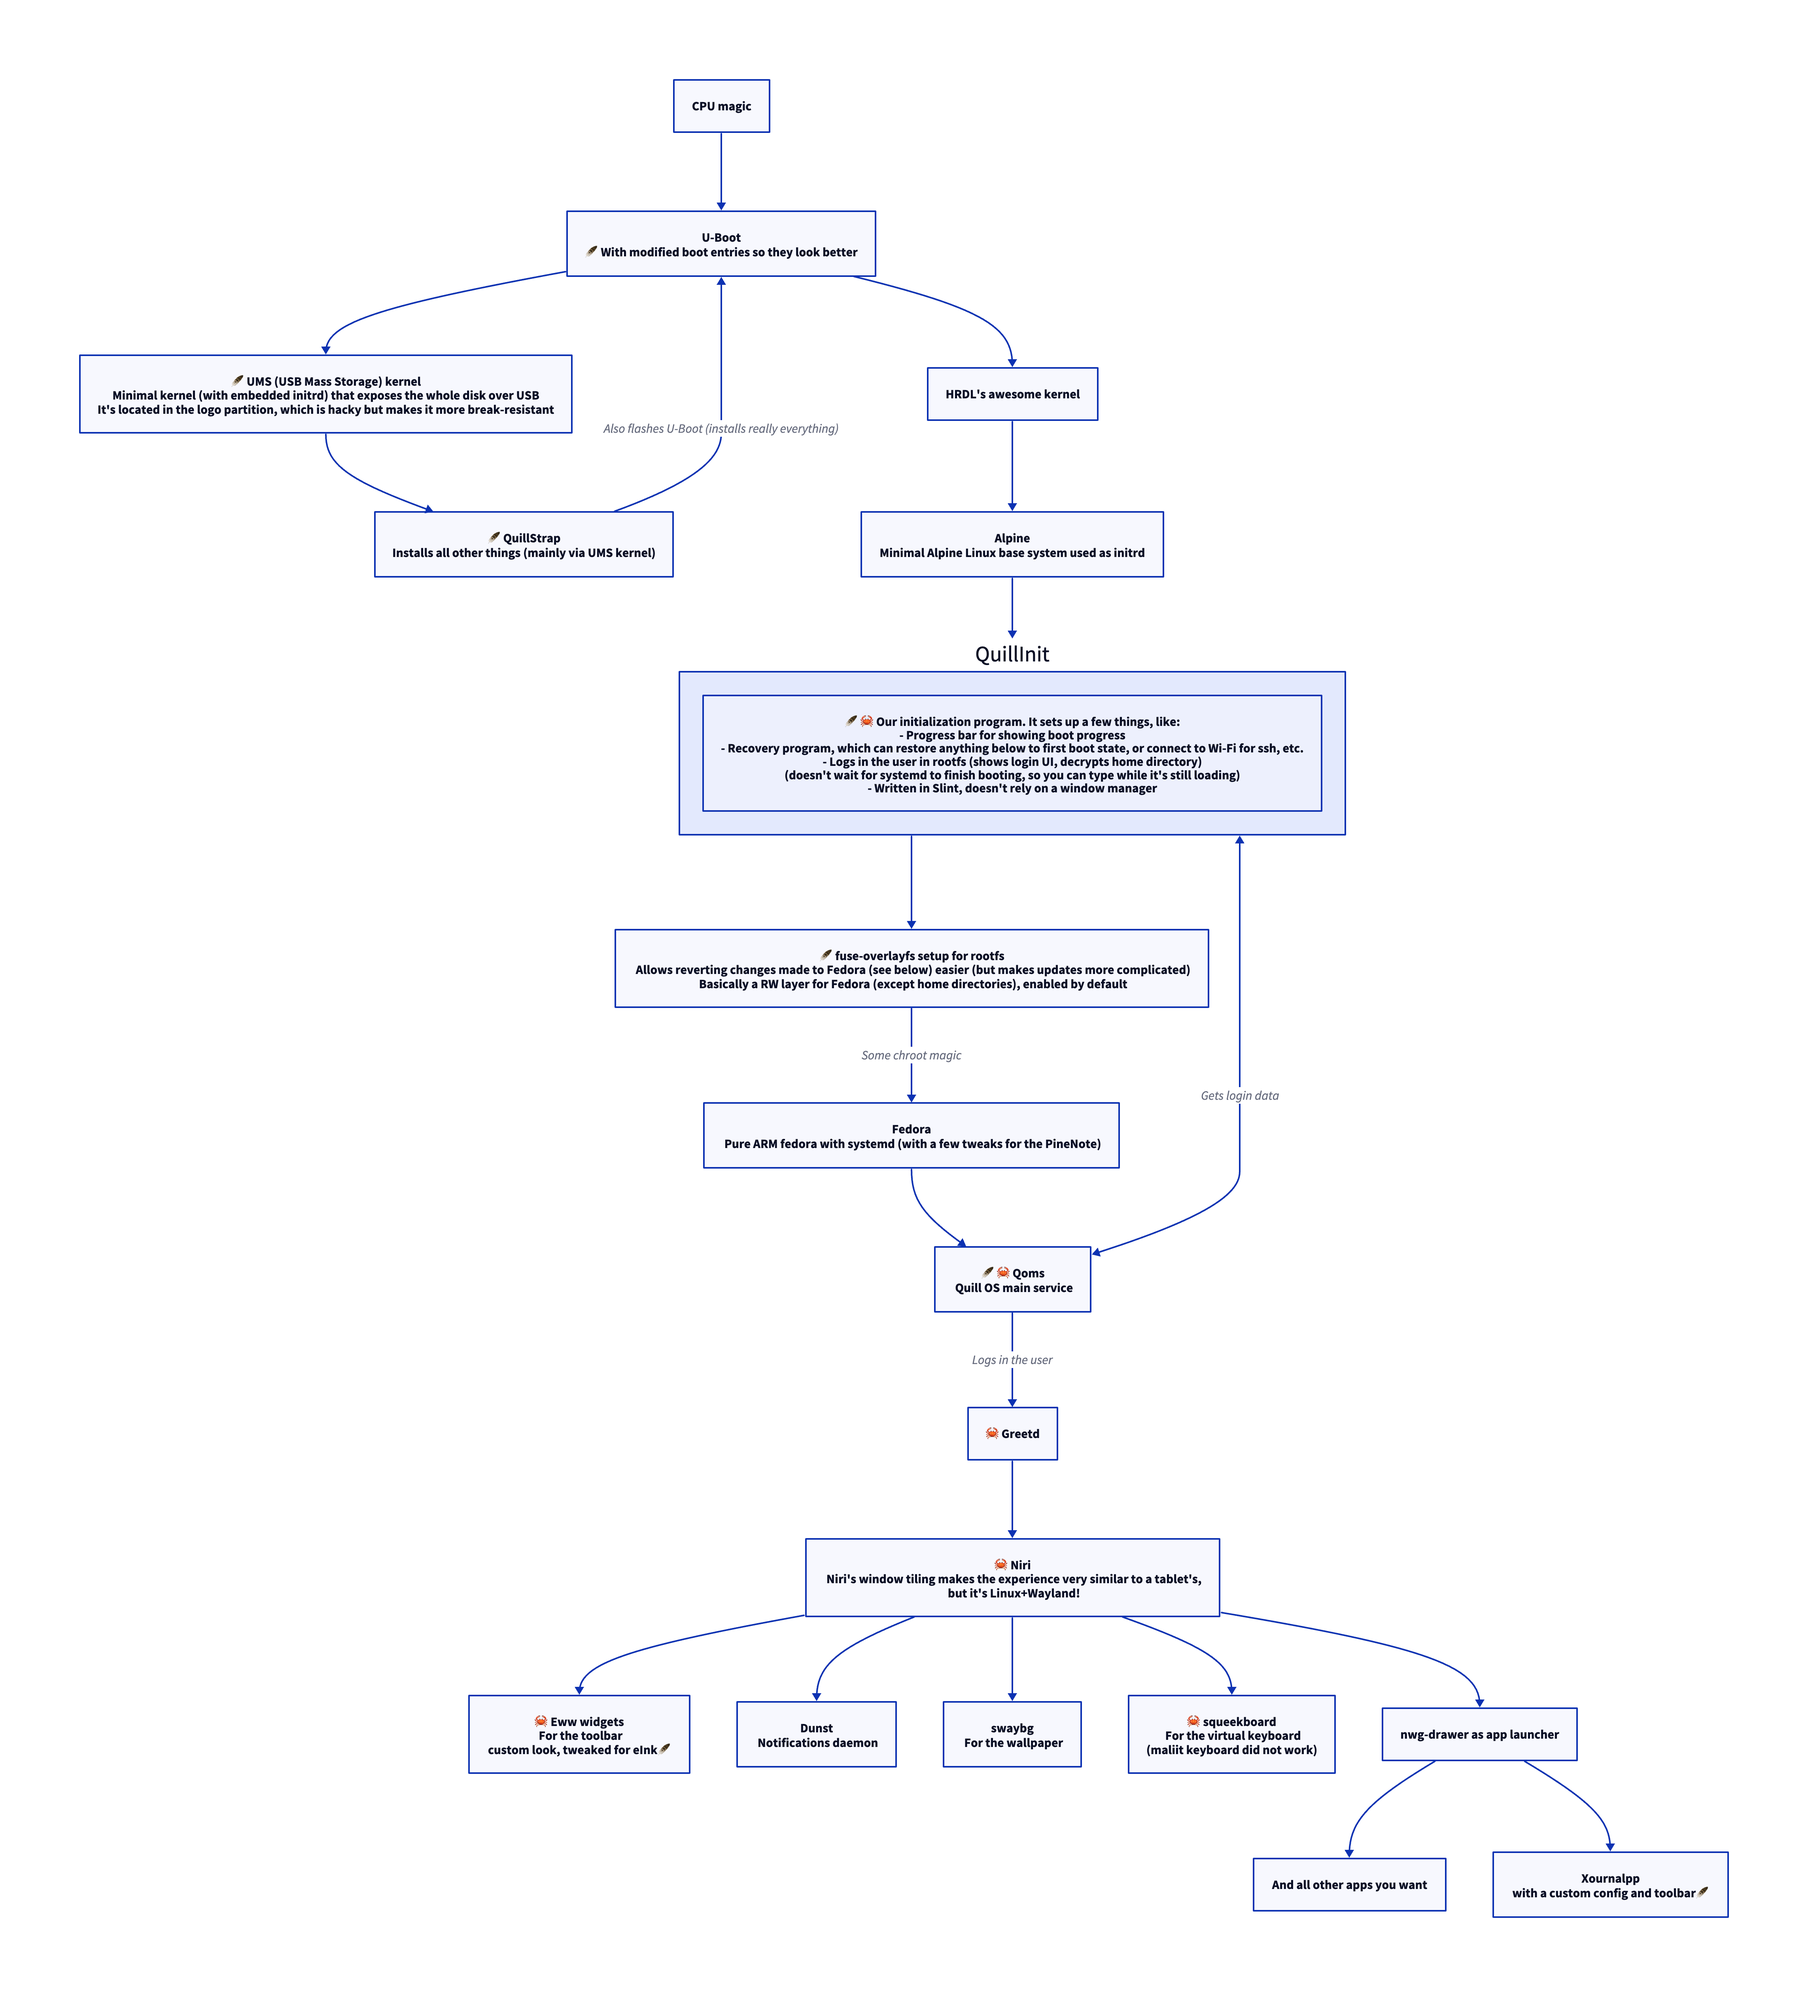
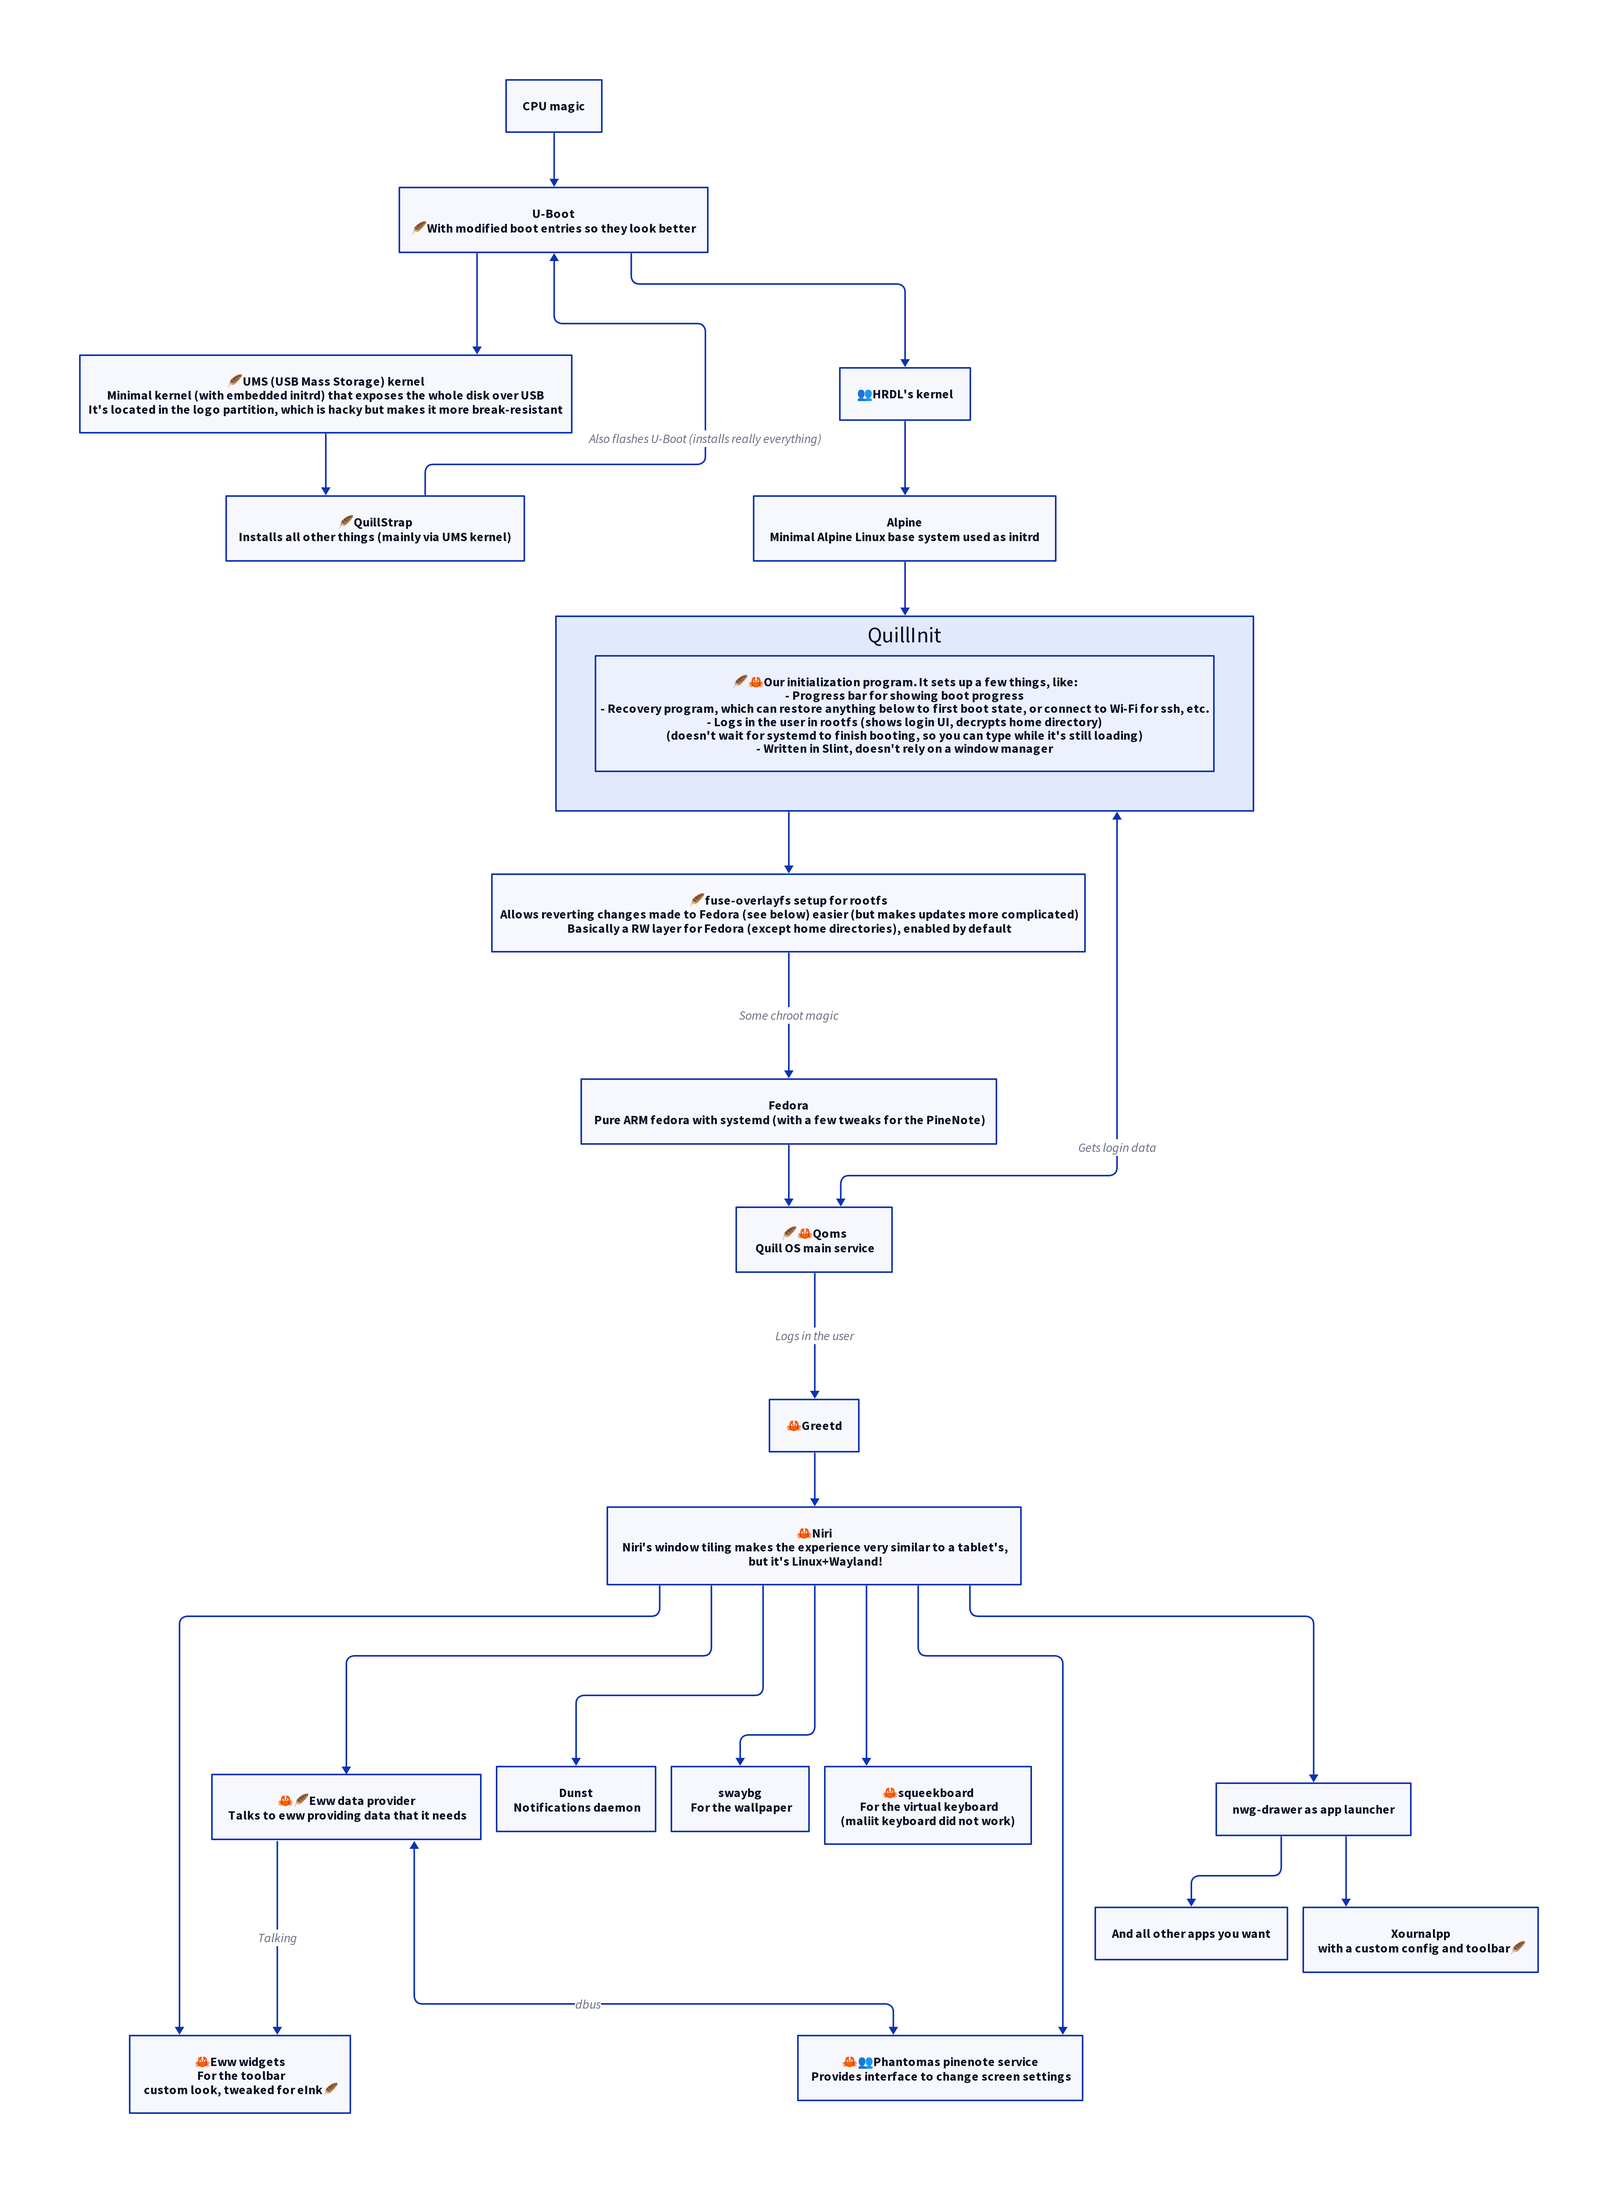
update dodocs

diff --git a/public/technical/README.md b/public/technical/README.md
@@ -3,6 +3,7 @@
 How to read it:
 - 🪶 Means it's written/designed from ground up / modified heavily just for the pinenote. I just wanted to see how much things we create and how much we reuse
 - 🦀 Means it's written in rust, I was curious how much is rust (Not like other tools are worse, I it's just my curiosity sir)
+- 👥 Means it's software created by the community specifically for the pinenote, reused by us
 
 Also, the graph makes more sense once you understand the partition table we modified:
 - p0-p4 we don't touch, we only backup, flash uboot and flash uboot boot partition with images and UMS kernel
